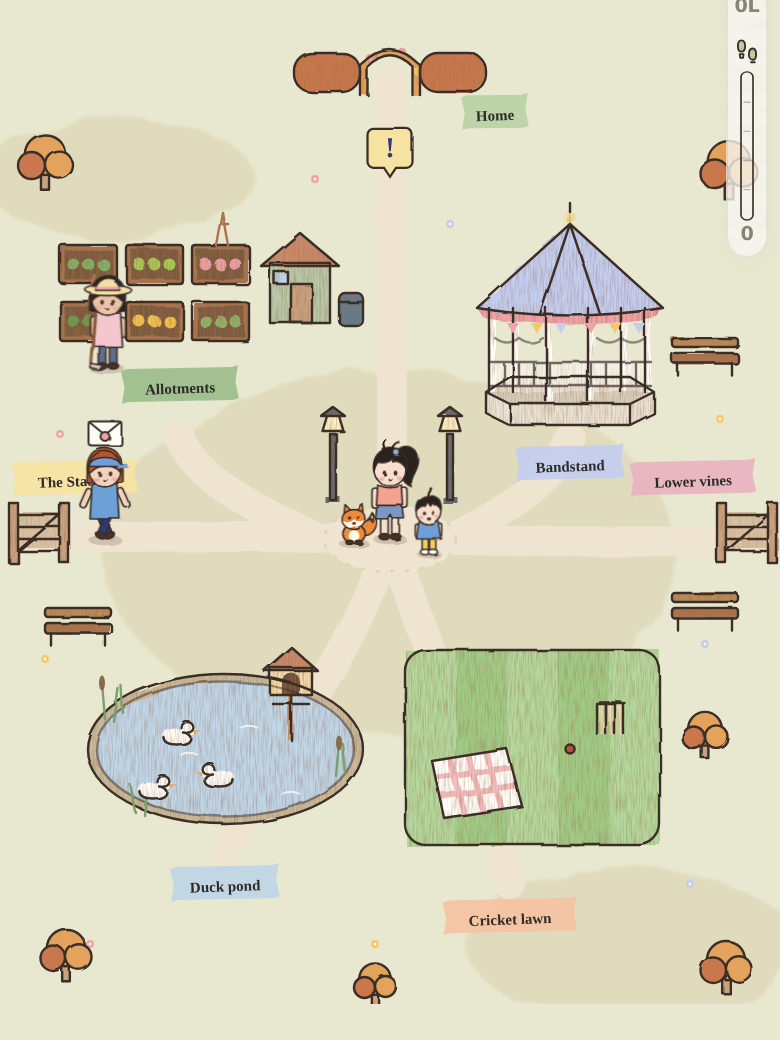
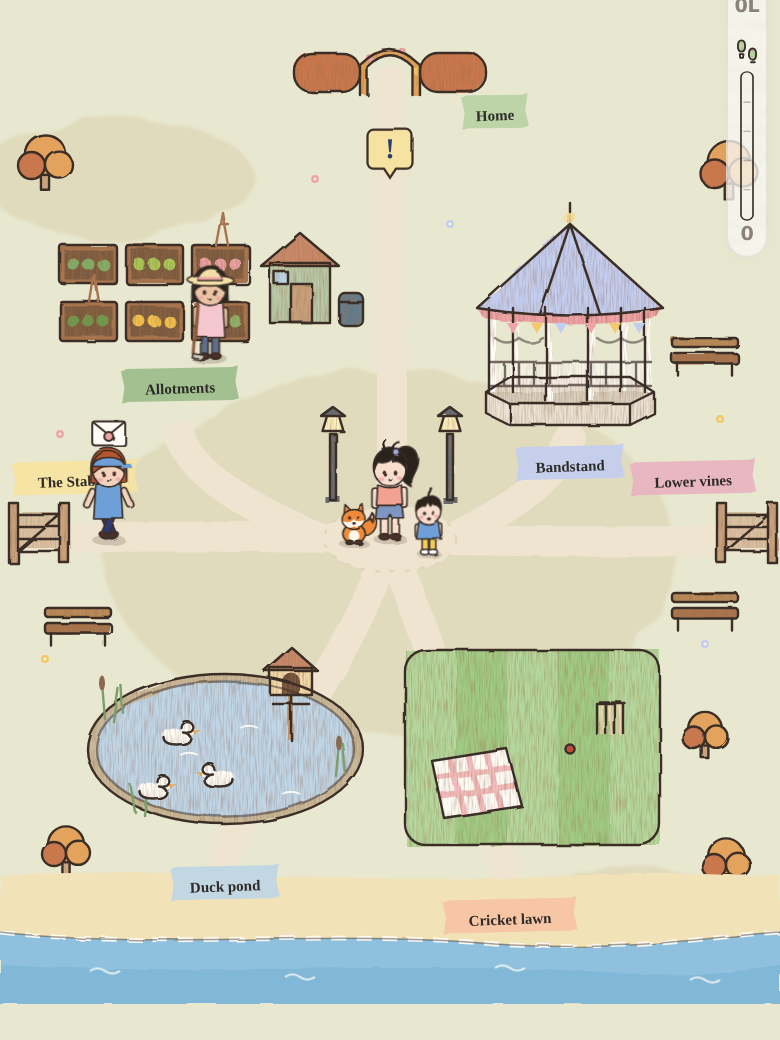
The sea runs along the whole bottom row; the home river shows in the vineyard
Claude-Session: https://claude.ai/code/session_017gYbhpw6TbdTF5ufLgYzyp

diff --git a/maple-village/src/art/lowervine.js b/maple-village/src/art/lowervine.js
@@ -1,9 +1,10 @@
 // The lower vineyard (round 261, Mel: "There's not enough vines for the variety we have... I need another 6"): down
 // the hill from the vineyard, the bottom-right screen of the 4 by 4 grid. Four more trellis rows (rows 3 to 6 of
 // F.vine.rows, bought at the stall like the others), the stream carrying on down the left, an old stone grape press,
-// and a bench at the bottom looking out over the valley. Path up to the vineyard at the top right.
+// and a bench at the bottom looking out to sea. Path up to the vineyard at the top right.
 import { sk, tapeLabel, tree, flowers } from "./scenes.js";
 import { rowArt, UPPER } from "./vineyard.js";
+import { southShore } from "./southshore.js";
 
 export function lowerVineArt(v){
   const ground = `<rect width="520" height="640" style="fill:var(--grass)"/>
@@ -14,11 +15,8 @@ export function lowerVineArt(v){
     <g filter="url(#wob)"><path d="M502 0 C494 100 498 200 490 300 C484 400 478 480 430 560 C400 590 360 596 330 600 M490 300 C420 304 300 300 180 300 C150 300 130 310 118 330" fill="none" style="stroke:var(--path)" stroke-width="20" stroke-linecap="round"/></g>
     ${flowers([[60, 90, "#EFA3A6"], [150, 200, "#F3C969"], [470, 180, "#C3CDEE"], [90, 420, "#EFA3A6"], [160, 520, "#F3C969"], [480, 420, "#EFA3A6"], [200, 120, "#C3CDEE"]])}
     ${tree(110, 110, .85)}${tree(200, 70, .7)}${tree(60, 560, .8)}`;
-  // the valley along the bottom: soft blue hills fading into mist, with a few far-off vine stripes
-  const valley = `<g pointer-events="none"><path d="M0 604 C80 586 150 598 220 590 C300 582 380 596 440 588 C480 584 506 590 520 588 V640 H0z" fill="#C9D9E8" opacity=".85"/>
-    <path d="M0 620 C100 606 200 616 300 608 C390 602 460 612 520 606 V640 H0z" fill="#B3C7DC" opacity=".9"/>
-    <g opacity=".45" style="stroke:#7C9F6C" stroke-width="1.6">${[0, 1, 2, 3].map(k => `<path d="M${60 + k*14} ${612 + k*3} l40 -4"/>`).join("")}</g>
-    <ellipse cx="260" cy="602" rx="240" ry="7" fill="#FFFDF6" opacity=".45"/></g>`;
+  // round 266: the sea along the bottom, carried on from Lighthouse Point (it used to be a misty valley)
+  const shore = southShore();
   const up = `<g data-place="toVineD" aria-label="Path up to the vineyard"><ellipse class="hov" cx="498" cy="26" rx="26" ry="18" style="fill:var(--butter)"/>
     ${sk(`<rect x="478" y="2" width="5" height="34" style="fill:var(--wood)"/><rect x="512" y="2" width="5" height="34" style="fill:var(--wood)"/><path d="M474 6 q24 -14 46 0 v5 q-23 -11 -46 0z" style="fill:#9CC27E"/>`,
       `<rect x="478" y="2" width="5" height="34"/><rect x="512" y="2" width="5" height="34"/><path d="M474 6 q24 -14 46 0 v5 q-23 -11 -46 0z"/>`)}
@@ -29,16 +27,18 @@ export function lowerVineArt(v){
       <rect x="104" y="270" width="12" height="62" style="fill:#8A6A4E"/><rect x="70" y="268" width="80" height="10" rx="3" style="fill:#A8754F"/><rect x="152" y="344" width="26" height="12" rx="3" style="fill:#BDB3A4"/>`,
       `<ellipse cx="110" cy="352" rx="44" ry="14"/><path d="M66 330 v22 M154 330 v22"/><ellipse cx="110" cy="330" rx="44" ry="13"/><path d="M110 278 v52 M104 290 h12 M104 302 h12 M104 314 h12" opacity=".6"/><rect x="70" y="268" width="80" height="10" rx="3"/><rect x="152" y="344" width="26" height="12" rx="3"/><path d="M80 346 h60" opacity=".35"/>`)}
     ${tapeLabel(110, 392, "Old press", "var(--peach)", 10)}</g>`;
-  // the bench at the bottom, facing the valley
-  const bench = `<g data-place="vbench" aria-label="The valley bench"><ellipse class="hov" cx="300" cy="590" rx="44" ry="9" style="fill:var(--butter)"/>
+  // the bench at the bottom, facing the sea
+  const bench = `<g data-place="vbench" aria-label="The sea bench"><ellipse class="hov" cx="300" cy="590" rx="44" ry="9" style="fill:var(--butter)"/>
     ${sk(`<rect x="266" y="566" width="68" height="8" rx="2" style="fill:#A8754F"/><rect x="266" y="552" width="68" height="8" rx="2" style="fill:#B98A5A"/>`,
       `<rect x="266" y="566" width="68" height="8" rx="2"/><rect x="266" y="552" width="68" height="8" rx="2"/><path d="M272 574 v12 M328 574 v12 M270 560 v6 M330 560 v6"/>`)}
-    ${tapeLabel(300, 540, "Valley bench", "var(--sky)", 10)}</g>`;
+    ${tapeLabel(300, 540, "Sea bench", "var(--sky)", 10)}</g>`;
   const sign = sk(`<rect x="160" y="176" width="72" height="16" rx="2" style="fill:#FFFDF6"/>`, `<rect x="160" y="176" width="72" height="16" rx="2"/><path d="M196 192 v14"/>`)
     + `<text x="196" y="187.5" text-anchor="middle" font-family="Klee One,serif" font-weight="600" font-size="9.5" style="fill:var(--line)" pointer-events="none">lower vines</text>`;
   // round 262: west over a little footbridge on the stream to Honeybrook Green
   const west = `<g data-place="toGreenV" aria-label="Footbridge to Honeybrook Green"><ellipse class="hov" cx="24" cy="330" rx="28" ry="20" style="fill:var(--butter)"/>
     ${sk(`<rect x="0" y="318" width="48" height="18" rx="2" style="fill:#C9A27E"/>`, `<rect x="0" y="318" width="48" height="18" rx="2"/><path d="M10 318 v18 M20 318 v18 M30 318 v18 M40 318 v18" opacity=".5"/><path d="M0 314 h48" stroke-width="2"/>`)}
     ${tapeLabel(64, 362, "The green", "var(--sage)", 10)}</g>`;
-  return ground + valley + up + west + sign + press + v.rows.slice(UPPER).map((row, k) => rowArt(row, UPPER + k)).join("") + bench;
+  // the stream runs out across the sand into the sea
+  const mouth = `<g filter="url(#wob)" pointer-events="none"><path d="M20 520 C24 556 22 578 34 606" fill="none" style="stroke:var(--water)" stroke-width="16" stroke-linecap="round"/><path d="M13 520 C17 556 15 578 27 606 M27 520 C31 556 29 578 41 606" fill="none" style="stroke:var(--line)" stroke-width="1.2" opacity=".6"/></g>`;
+  return ground + shore + mouth + up + west + sign + press + v.rows.slice(UPPER).map((row, k) => rowArt(row, UPPER + k)).join("") + bench;
 }

diff --git a/maple-village/src/game/core.js b/maple-village/src/game/core.js
@@ -1033,7 +1033,7 @@ const PLACES = {home: "home", house: "home", fridge: "home:fridge", kitchen: "ho
   "weekly review": "hall:review", review: "hall:review", scrapbook: "hall:review", "week review": "hall:review",
   field: "field:lake", lake: "field:lake", swans: "field:lake", picnic: "field:picnic", football: "field:pitch", park: "field:lake",
   orchard: "orchard:farmshop", "farm shop": "orchard:farmshop", "tour sign": "orchard:toursign", tours: "orchard:toursign", "fruit": "orchard:farmshop", "flower farm": "flowers", foreshore: "shore:dolphins", beach: "shore:dolphins", seaside: "shore:dolphins", "dolphin bench": "shore:dolphins", dolphins: "shore:dolphins", paddleboard: "shore:suprack", paddleboards: "shore:suprack", "paddleboarding": "shore:suprack", "mum's house": "mumdad", "mum and dad's": "mumdad", "parents' house": "mumdad", "marcus's house": "marcus", "marcus and angelina's": "marcus", "exercise lawn": "field:exlawn", "exercise class": "field:exlawn", pilates: "field:exlawn", zumba: "field:exlawn", "ma ma": "cottage", "ma ma's cottage": "cottage", cottage: "cottage", "grandma": "cottage",
-  vineyard: "vineyard:barrels", vines: "vineyard:vinestall", "barrel shed": "vineyard:barrels", barrels: "vineyard:barrels", "wine shop": "wineshop", "honesty box": "wineshop:hbox", "tasting room": "wineshop:tasting", playground: "vineyard:pslide", "lower vineyard": "lowervine:vbench", "lower vines": "lowervine:vbench", "valley bench": "lowervine:vbench", "grape press": "lowervine:vpress", "old press": "lowervine:vpress",
+  vineyard: "vineyard:barrels", vines: "vineyard:vinestall", "barrel shed": "vineyard:barrels", barrels: "vineyard:barrels", "wine shop": "wineshop", "honesty box": "wineshop:hbox", "tasting room": "wineshop:tasting", playground: "vineyard:pslide", "lower vineyard": "lowervine:vbench", "lower vines": "lowervine:vbench", "sea bench": "lowervine:vbench", "valley bench": "lowervine:vbench", "grape press": "lowervine:vpress", "old press": "lowervine:vpress",
   "town hall": "hall", hall: "hall", bank: "bank", vaults: "bank", savings: "bank", "kind words": "trophy:kudos", "trophy room": "trophy", courtyard: "trophy", fountain: "trophy:fountain", trophies: "trophy", "trophy book": "trophy:tbook", affirmations: "trophy:affirm", routines: "room:routines", "routine board": "room:routines", compliments: "trophy:kudos", "client table": "hall:clients", clients: "hall:clients", "planning table": "hall:table", plans: "hall:table", revenue: "hall:revenue", "revenue chart": "hall:revenue", chord: "chord", "makers lane": "lane:plot3", lane: "lane:plot3", library: "fresh", "fresh pages": "fresh", chico: "chico", luna: "luna", "luna house": "luna", ohayo: "ohayo", "ohayo house": "ohayo", "post office": "post", post: "post", town: "village:board"};
 function walkToPlace(name){
   if (/dinner|dining table/.test(String(name || "").toLowerCase())) { const d = dinnerOn(dayKey()), host = d ? d.host : "home", st = spotObj(host, "dine"); go(host, st.tx, st.ty, () => arriveSpot("dine")); return name; }

diff --git a/maple-village/src/art/stables.js b/maple-village/src/art/stables.js
@@ -2,6 +2,7 @@
 // the long timber stable block (three half-doors, two ponies looking out, a clock and weathervane on the roof) and the
 // tack room sit along the top of the yard, the gates to the green (east) and Lighthouse Point (west) either side,
 // the paddock with two grazing ponies fills the bottom right, and the little sand ring for pony rides the bottom left.
+import { southShore } from "./southshore.js";
 import { ink } from "../util.js";
 import { sk, tapeLabel, tree, flowers } from "./scenes.js";
 
@@ -32,7 +33,7 @@ export function stablesArt(){
     <g filter="url(#wob)"><path d="M260 0 V300 M22 330 C90 320 160 300 260 300 C360 300 430 320 498 330 M110 240 C130 270 180 290 230 298 M320 242 V300 M250 304 C230 340 214 380 214 420 M214 420 C206 500 200 560 110 572" fill="none" style="stroke:var(--path)" stroke-width="20" stroke-linecap="round"/>
       <ellipse cx="260" cy="300" rx="74" ry="30" style="fill:var(--path)"/><ellipse cx="260" cy="300" rx="74" ry="30" fill="none" style="stroke:var(--path2)" stroke-width="1.5" stroke-dasharray="3 7"/></g>
     ${flowers([[30, 270, "#EFA3A6"], [44, 278, "#F3C969"], [180, 360, "#C3CDEE"], [470, 290, "#EFA3A6"], [30, 610, "#F3C969"], [200, 620, "#EFA3A6"], [400, 270, "#F3C969"], [150, 130, "#C3CDEE"], [470, 620, "#C3CDEE"]])}
-    ${tree(460, 100, .9)}${tree(500, 230, .8)}${tree(36, 410, .75)}${tree(176, 600, .7)}`;
+    ${tree(460, 100, .9)}${tree(500, 230, .8)}${tree(36, 410, .75)}${tree(176, 560, .65)}`;
   // the hedge along the top, with a gap and a rose arch where the path comes down from the orchard
   const hedge = (x1, x2) => sk(`<path d="M${x1} 0 H${x2} V30 q-12 10 -24 2 q-12 10 -24 0 q-12 10 -24 2 H${x1}z" style="fill:var(--moss)"/>`, `<path d="M${x1} 30 H${x2}" opacity=".5"/>`);
   const north = hedge(0, 230) + hedge(290, 520) + `<g data-place="toOrchardS" aria-label="Path up to the orchard"><ellipse class="hov" cx="260" cy="24" rx="30" ry="18" style="fill:var(--butter)"/>
@@ -93,5 +94,6 @@ export function stablesArt(){
     <path d="M58 392 h34 l-6 14 h-24z" style="fill:#8EA3B5"/><path d="M60 390 q14 -8 30 0" style="fill:#EDD08A"/><circle cx="64" cy="410" r="5" style="fill:#4A3A30"/>`,
     `<rect x="156" y="208" width="20" height="14" rx="2"/><rect x="176" y="208" width="20" height="14" rx="2"/><rect x="166" y="194" width="20" height="14" rx="2"/><path d="M162 215 h10 M182 215 h10 M172 201 h10" opacity=".5"/>
     <path d="M58 392 h34 l-6 14 h-24z M92 392 l12 -4 M86 406 l4 10"/><circle cx="64" cy="410" r="5"/>`);
-  return ground + north + east + west + bits + tack + stable + paddock + ride;
+  // round 266: the paddock sits 26 higher so its bottom fence stays on the sand, clear of the sea
+  return ground + southShore() + north + bits + tack + stable + `<g transform="translate(0 -26)">${paddock}</g>` + east + west + ride;
 }

diff --git a/maple-village/src/data/world.js b/maple-village/src/data/world.js
@@ -66,7 +66,7 @@ export const VILLAGE = {
   toLightS:{scene:"stables", name:"Path to Lighthouse Point", door:[26,330], spot:true, bridge:"lighthouse", mark:[50,270], line:"West to Lighthouse Point."},
   sstable:{scene:"stables", name:"The stable block", door:[320,244], spot:true, mark:[320,90], line:"The stable block."},
   stack:{scene:"stables", name:"The tack room", door:[110,244], spot:true, mark:[110,110], line:"The tack room. Saddles on their racks, bridles on hooks, a rosette board, and the smell of leather soap."},
-  spaddock:{scene:"stables", name:"The paddock", door:[214,420], spot:true, mark:[330,360], line:"The paddock."},
+  spaddock:{scene:"stables", name:"The paddock", door:[214,394], spot:true, mark:[330,334], line:"The paddock."},
   sride:{scene:"stables", name:"Pony rides", door:[110,574], spot:true, mark:[110,430], line:"Pony rides."},
   toFlowersL:{scene:"lighthouse", name:"Coast path to the flower farm", door:[150,30], spot:true, bridge:"flowers", mark:[150,90], line:"Up the coast path to the flower farm."},
   toStablesL:{scene:"lighthouse", name:"Path to the Stables", door:[494,330], spot:true, bridge:"stables", mark:[470,270], line:"East to the Stables."},
@@ -77,7 +77,7 @@ export const VILLAGE = {
   toLowerV:{scene:"vineyard", name:"Path down to the lower vineyard", door:[496,614], spot:true, bridge:"lowervine", mark:[474,540], line:"Down the hill to the lower vineyard."},
   toVineD:{scene:"lowervine", name:"Path up to the vineyard", door:[496,30], spot:true, bridge:"vineyard", mark:[450,90], line:"Up the hill to the vineyard."},
   vpress: {scene:"lowervine", name:"The old grape press", door:[110,378], spot:true, mark:[110,240], line:"The old stone press. Marco says his grandfather trod grapes in it, barefoot, singing. Now it's for leaning on and looking at."},
-  vbench: {scene:"lowervine", name:"The valley bench", door:[300,580], spot:true, mark:[300,500], line:"You sit a while. The valley goes blue in the distance, the vines tick in the breeze, and nobody needs anything from you."},
+  vbench: {scene:"lowervine", name:"The sea bench", door:[300,580], spot:true, mark:[300,500], line:"You sit a while. The sea goes silver all the way to the edge of the sky, the vines tick in the breeze behind you, and nobody needs anything from you."},
   olive:  {scene:"vineyard", name:"Olive tree", door:[250,262], spot:true, line:"The olive tree. Olives every few hours, once it's planted."},
   pround: {scene:"vineyard", name:"Roundabout", door:[188,598], spot:true, line:"The roundabout. Round and round and round!"},
   pseesaw:{scene:"vineyard", name:"Seesaw", door:[410,600], spot:true, line:"The seesaw. Up, down, up, down."},

diff --git a/maple-village/src/art/green.js b/maple-village/src/art/green.js
@@ -1,6 +1,7 @@
 // Honeybrook Green: the village green, south of Mel's home. A hedge arch at the top leads home, wooden gates
 // east to the lower vineyard and west to the Stables, and round the green a duck pond, a Victorian bandstand,
 // the cricket lawn and the allotments. Paths cross in the middle, which stays open for walking.
+import { southShore } from "./southshore.js";
 import { sk, tapeLabel, tree, flowers } from "./scenes.js";
 
 // a little old lamp post (decoration only)
@@ -24,7 +25,7 @@ export function greenArt(){
     <g filter="url(#wob)" fill="none" style="stroke:var(--path)" stroke-width="20" stroke-linecap="round"><path d="M260 24 C258 120 264 240 260 330 M22 330 C140 324 380 336 498 330 M260 330 C230 420 180 470 150 540 M260 330 C290 420 320 480 340 560 M300 330 C340 310 372 290 380 262 M210 328 C170 310 130 290 120 262"/></g>
     <g filter="url(#wob)"><ellipse cx="260" cy="330" rx="44" ry="22" style="fill:var(--path)"/><ellipse cx="260" cy="330" rx="44" ry="22" fill="none" style="stroke:var(--path2)" stroke-width="1.5" stroke-dasharray="3 7"/></g>
     ${flowers([[40, 260, "#EFA3A6"], [480, 250, "#F3C969"], [470, 400, "#C3CDEE"], [30, 410, "#F3C969"], [240, 470, "#EFA3A6"], [460, 560, "#C3CDEE"], [250, 600, "#F3C969"], [60, 600, "#EFA3A6"], [300, 120, "#C3CDEE"], [210, 90, "#EFA3A6"]])}
-    ${tree(30, 90, .9)}${tree(486, 96, .95)}${tree(44, 618, .85)}${tree(484, 626, .85)}${tree(250, 636, .7)}${tree(470, 470, .75)}`;
+    ${tree(30, 90, .9)}${tree(486, 96, .95)}${tree(44, 548, .8)}${tree(484, 556, .8)}${tree(470, 470, .75)}`;
 
   // the hedge arch at the top: two short hedges and a rose-covered arch over the path home
   const home = `<g data-place="toBaseG" aria-label="Path up home"><ellipse class="hov" cx="260" cy="26" rx="28" ry="16" style="fill:var(--butter)"/>
@@ -79,7 +80,7 @@ export function greenArt(){
       `<rect x="270" y="404" width="170" height="130" rx="14"/><path d="M398 440 h19 M398 440 v20 M404 440 v20 M410 440 v20 M416 440 v20 M400 439 h6 M408 439 h6"/><path d="M288 478 L338 470 L348 508 L296 516z"/><circle cx="380" cy="470" r="3"/>`)}
     ${tapeLabel(340, 582, "Cricket lawn", "var(--peach)", 10)}</g>`;
 
-  return ground + home + allot + band + pond + lawn
+  return ground + southShore() + home + allot + band + pond + lawn
     + sideGate("toVineG", "Gate to the lower vineyard", 512, "Lower vines", "#E8B4C0", 1)
     + sideGate("toStablesG", "Gate to the Stables", 6, "The Stables", "var(--butter)", -1)
     + lamp(222, 304) + lamp(300, 304) + bench(470, 210) + bench(470, 380) + bench(52, 390);

diff --git a/maple-village/src/art/vineyard.js b/maple-village/src/art/vineyard.js
@@ -114,6 +114,8 @@ export function vineyardArt(){
     <g filter="url(#wob)" fill="none" opacity=".45" style="stroke:var(--moss2)" stroke-width="3" stroke-dasharray="2 7">${[24, 44, 64].map(y => `<path d="M190 ${y} Q300 ${y - 8} 510 ${y + 4}"/>`).join("")}</g>
     <g filter="url(#wob)"><path d="M14 0 C6 110 26 210 16 300 C8 390 28 500 14 640" fill="none" style="stroke:var(--water)" stroke-width="16"/><path d="M8 0 C0 110 20 210 10 300 C2 390 22 500 8 640 M22 0 C14 110 34 210 24 300 C16 390 36 500 22 640" fill="none" style="stroke:var(--line)" stroke-width="1" opacity=".5"/></g>
     <path class="ripple" d="M10 150 q4 -3 8 0 M14 460 q4 -3 8 0" fill="none" style="stroke:#FFFDF6" stroke-width="1.2" opacity=".8"/>
+    <g filter="url(#wob)"><path d="M0 44 C14 42 24 44 30 50 C34 62 30 80 26 94 C22 100 10 100 0 98z" style="fill:var(--water)"/><path d="M0 44 C14 42 24 44 30 50 C34 62 30 80 26 94 C22 100 10 100 0 98" fill="none" style="stroke:var(--line)" stroke-width="1.1"/></g>
+    <path class="ripple" d="M6 70 q4 -3 8 0" fill="none" style="stroke:#FFFDF6" stroke-width="1.2" opacity=".8"/>
     <g filter="url(#wob)"><path d="M24 300 H486 M112 300 V238 M390 300 V222 M186 300 C186 400 190 480 210 548 M290 0 C296 100 284 200 296 300" fill="none" style="stroke:var(--path)" stroke-width="22" stroke-linecap="round"/></g>
     ${flowers([[30,140,"#EFA3A6"],[200,140,"#F3C969"],[480,250,"#C3CDEE"],[490,330,"#EFA3A6"],[150,350,"#F3C969"],[40,520,"#C3CDEE"],[480,520,"#F3C969"],[300,250,"#EFA3A6"]])}
     ${tree(250,130,.9)}${tree(495,150,.9)}${tree(26,620,.8)}${tree(500,620,.85)}${tree(40,380,.8)}`;

diff --git a/maple-village/src/art/southshore.js b/maple-village/src/art/southshore.js
@@ -1,0 +1,14 @@
+// The sea along the bottom of the bottom row (round 266, Mel: "that little water that's flowing east in the lighthouse
+// screen... can that carry over on the stables and village green and lower vineyard too?"). The same strip of sand and
+// sea on the Stables, the green and the lower vineyard, meeting Lighthouse Point's bottom edge at its east side.
+const ripple = ([x, y]) => `<path class="ripple" d="M${x} ${y} q5 -3.5 10 0 q5 3.5 10 0" fill="none" style="stroke:#FFFDF6" stroke-width="1.3" opacity=".8"/>`;
+export const SHORE_Y = 592;   // where the water starts at each screen edge (walk no further)
+export function southShore(){
+  const sand = "M0 554 C120 548 260 562 390 554 C450 550 490 556 520 554 V640 H0Z";
+  const sea = "M0 592 C100 604 220 590 330 600 C420 606 480 594 520 592 V640 H0Z";
+  const edge = "M0 592 C100 604 220 590 330 600 C420 606 480 594 520 592";
+  return `<g pointer-events="none"><g filter="url(#wob)"><path d="${sand}" style="fill:var(--sand)"/><path d="${sea}" style="fill:var(--sea)"/>
+    <path d="M0 614 C140 622 300 610 420 620 C470 624 500 616 520 614 V640 H0Z" style="fill:var(--sea2)" opacity=".7"/></g>
+    <g filter="url(#wob)" fill="none"><path d="${edge}" style="stroke:#FFFDF6" stroke-width="3.2" stroke-dasharray="10 7" opacity=".9"/><path d="${edge}" style="stroke:var(--line)" stroke-width="1" opacity=".45"/></g>
+    ${[[60, 618], [190, 622], [330, 616], [460, 624]].map(ripple).join("")}</g>`;
+}

diff --git a/maple-village/src/game/paths.js b/maple-village/src/game/paths.js
@@ -6,9 +6,9 @@ const OBST = {
   village: [[100, 40, 240, 172], [322, 64, 438, 168], [27, 246, 143, 350], [377, 380, 493, 484],
     [334, 304, 390, 336], [178, 368, 214, 404], [230, 284, 290, 326], [314, 548, 354, 568], [62, 436, 118, 476]],
   vineyard: [[52, 126, 172, 226], [318, 80, 462, 212], [58, 388, 122, 440], [228, 200, 272, 252]],
-  lowervine: [[64, 262, 156, 358]],   // round 261: the old press (the stream's crossed by the footbridge)
-  green: [[58, 420, 242, 520], [322, 110, 438, 256], [40, 112, 166, 198], [174, 124, 244, 190]],   // pond, bandstand, allotments, shed
-  stables: [[194, 116, 446, 232], [18, 128, 150, 230], [154, 192, 198, 224], [230, 380, 500, 600], [32, 452, 188, 548], [56, 386, 106, 416]],
+  lowervine: [[64, 262, 156, 358], [0, 596, 520, 640]],   // round 261: the old press (the stream's crossed by the footbridge)
+  green: [[0, 596, 520, 640], [58, 420, 242, 520], [322, 110, 438, 256], [40, 112, 166, 198], [174, 124, 244, 190]],   // pond, bandstand, allotments, shed
+  stables: [[0, 596, 520, 640], [194, 116, 446, 232], [18, 128, 150, 230], [154, 192, 198, 224], [230, 354, 500, 574], [32, 452, 188, 548], [56, 386, 106, 416]],
   lighthouse: [[0, 0, 62, 320], [0, 320, 75, 440], [0, 440, 55, 550], [0, 550, 110, 640], [110, 592, 520, 640], [52, 340, 176, 500], [295, 176, 483, 232], [394, 400, 466, 490]],
   flowers: [[462, 454, 514, 494], [0, 262, 30, 640]],
   orchard: [[64, 96, 200, 222], [350, 156, 480, 236]],

diff --git a/maple-village/HANDOFF.md b/maple-village/HANDOFF.md
@@ -2750,3 +2750,9 @@ Mel: villagers' story chapters read as broken-up speech without context; thank-y
   - `southSlot` (npcs.js, just before each villager's routine): six villagers at the Sunday band, six at Saturday cricket, Gong Gong at his allotment Tue/Thu mornings, Mei on Saturdays, Lila at the stables weekday mornings, Ines and Marco on the lower vines in the afternoon, walkers at the lighthouse at weekends and most evenings.
 - core.js: `SOUTH_SPOTS` and `southSpot`; scene names; places for walking to by name.
 - Tests: "The green, the Stables and Lighthouse Point (rounds 262 to 264)".
+
+## Round 266: the sea along the bottom row, and the home river in the vineyard (Mel: "that little water that's flowing east in the lighthouse screen... carry over on the stables and village green and lower vineyard too", "make sure the river in the home screen also shows a little in the vineyard")
+- art/southshore.js `southShore()`: the same strip of sand (from y 554) and sea (from y 592 at both edges) along the bottom of the Stables, the green and the lower vineyard, meeting Lighthouse Point's bottom edge. Walk obstacles [0, 596, 520, 640] on those three.
+- The lower vineyard's misty valley is now the sea; its stream runs across the sand into it; the "valley bench" is the "sea bench" (walking to "valley bench" still works).
+- The Stables' paddock sits 26 higher (door [214,394], obstacle [230,354,500,574]) so its fence stays on the sand; gate labels drawn after it. The green's bottom trees moved up off the beach.
+- The vineyard: the wide river from home shows at the top left (x 0 to 34, y 44 to 98), meeting the stream down its left edge.
